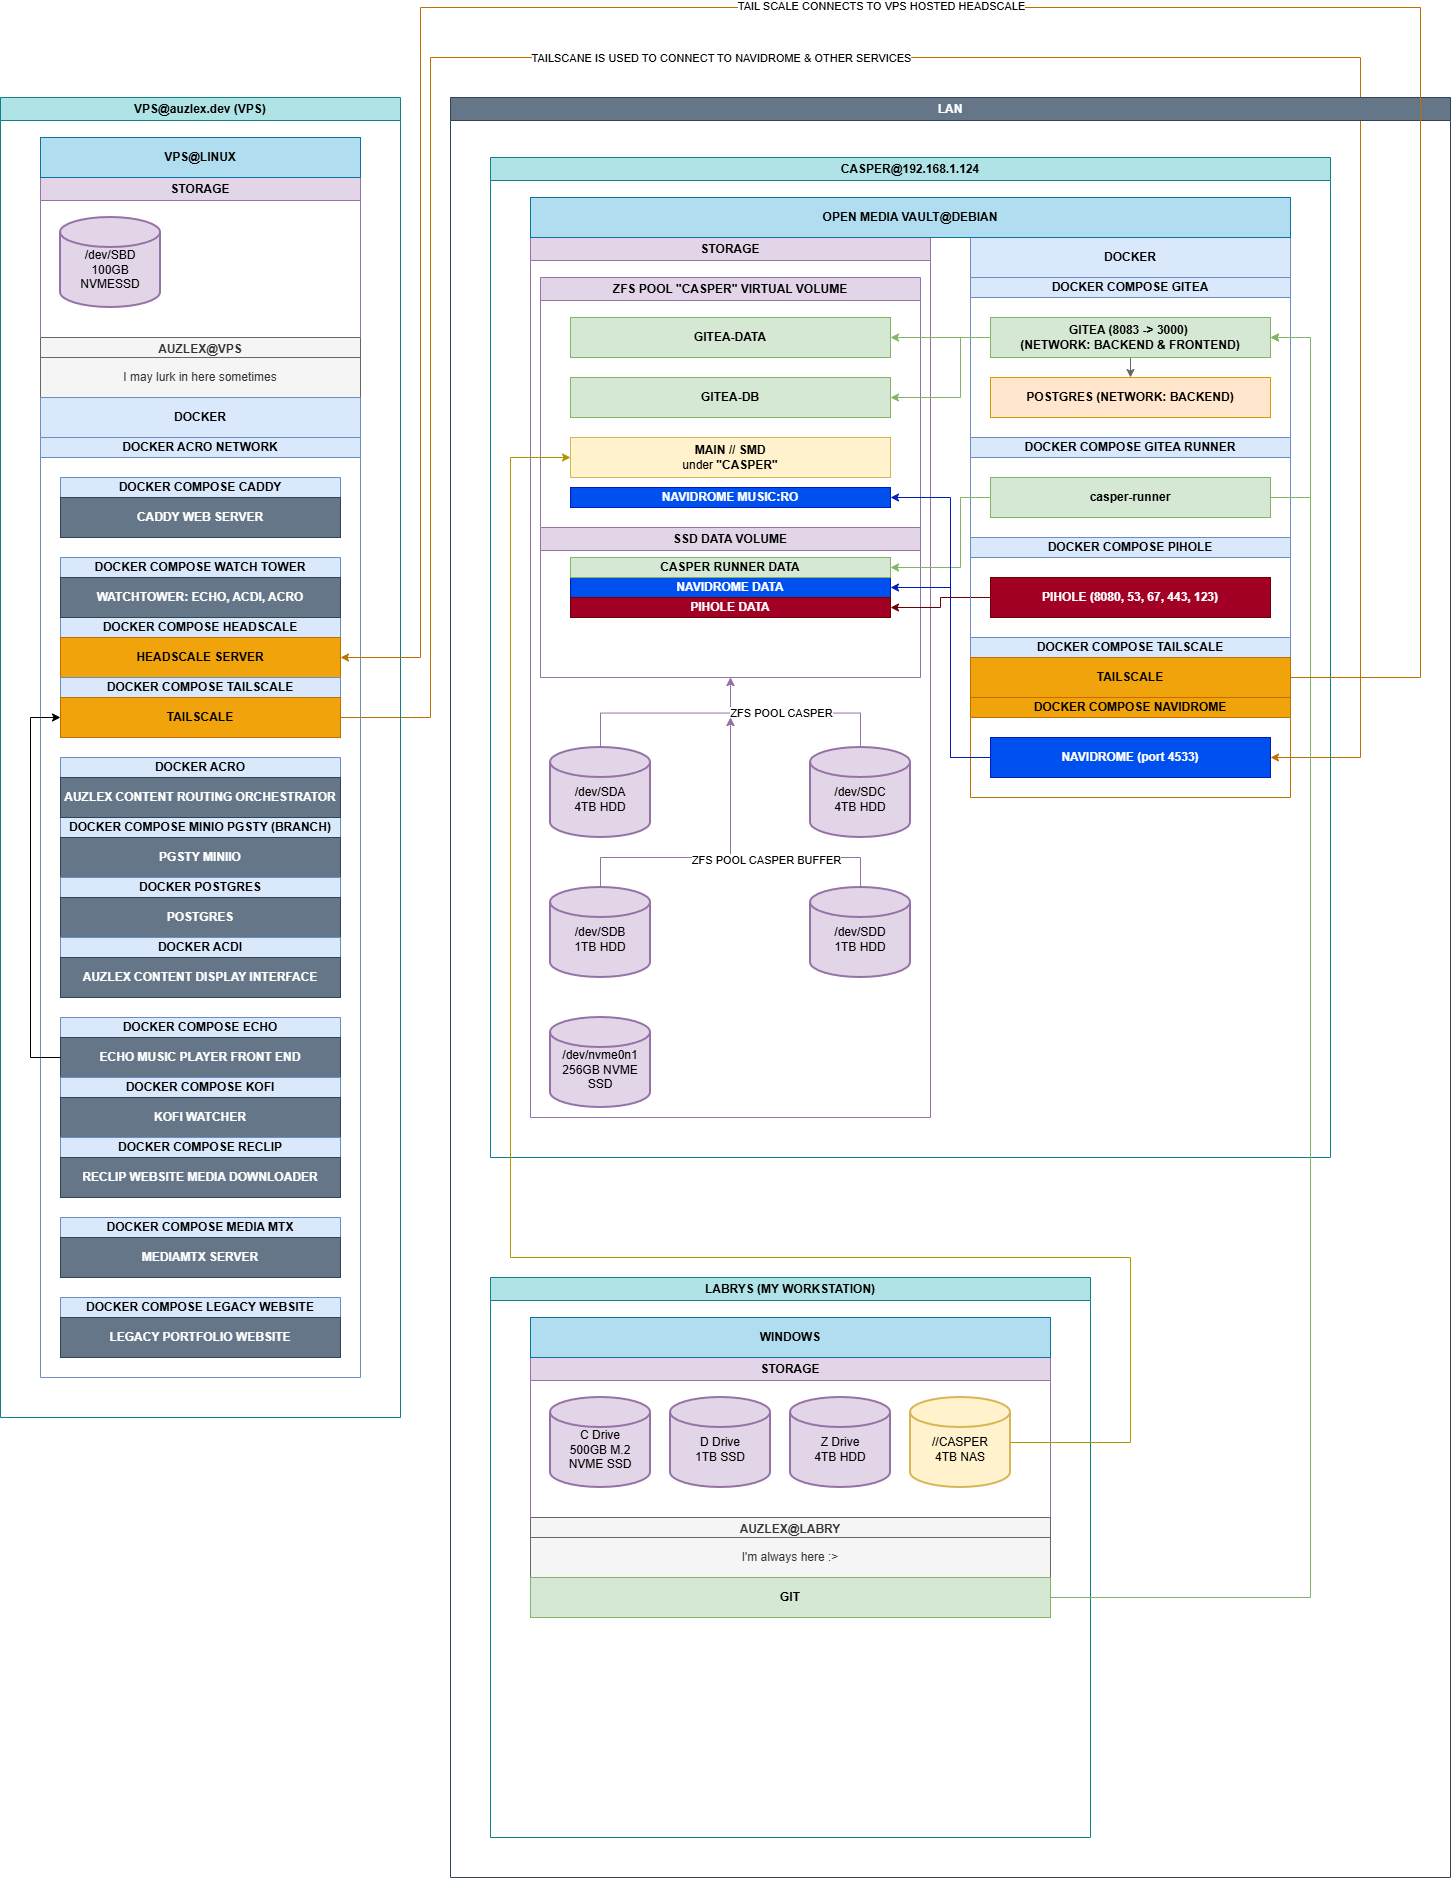
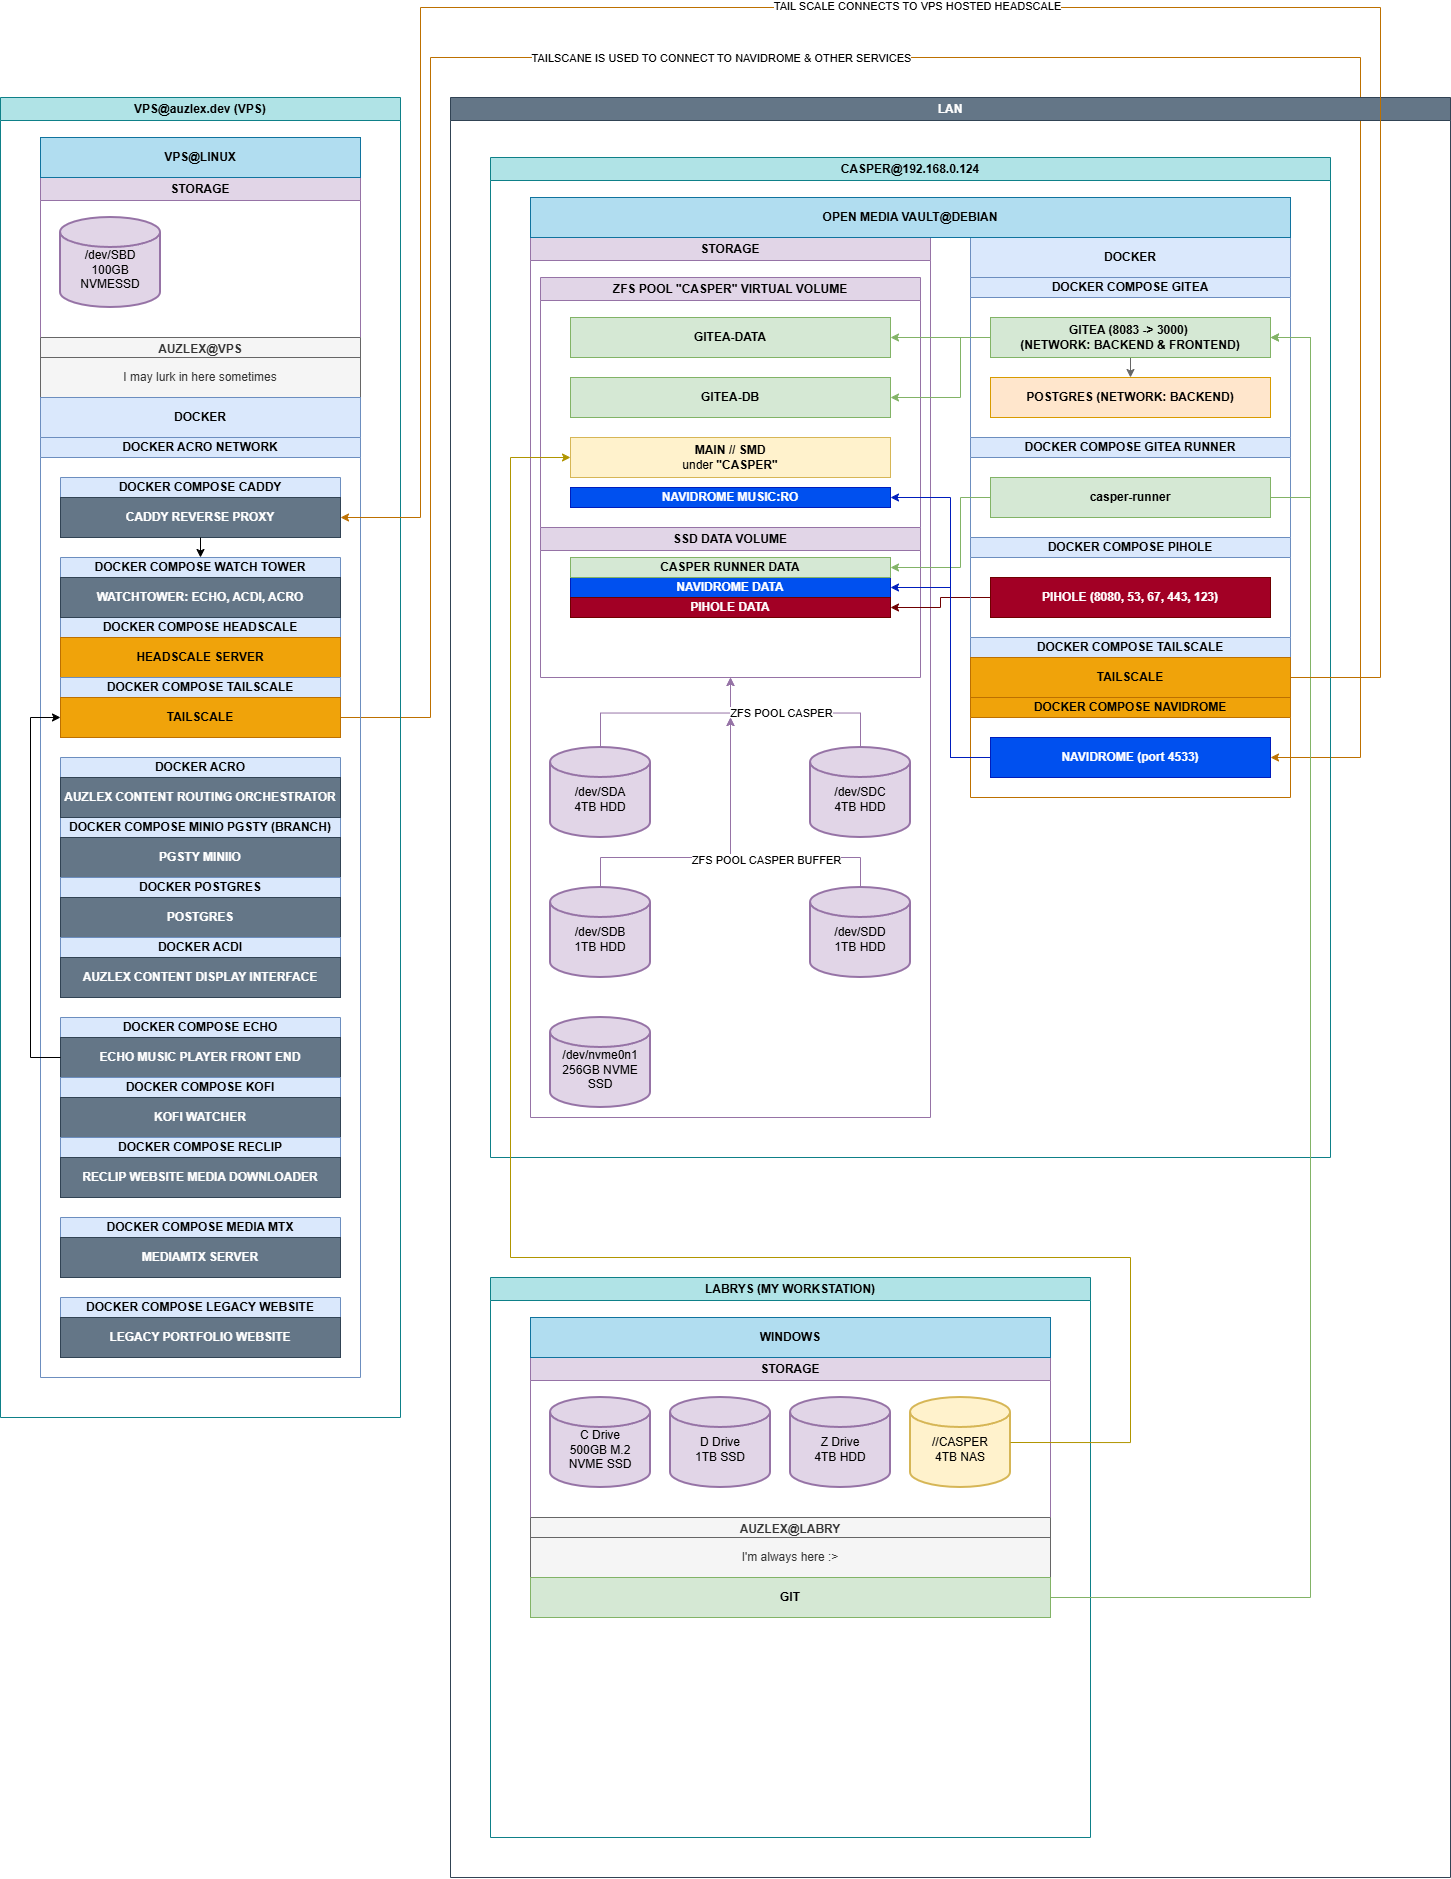
updated subnet mask for new router

diff --git a/docs/loric.md b/docs/loric.md
@@ -7,9 +7,9 @@
 
 * **Hostname:** LORIC  
 * **Type:** Raspberry Pi 3 B+
-* **IPv4 Address:** `192.168.1.122` **(STATIC)**
+* **IPv4 Address:** `192.168.0.122` **(STATIC)**
 * **IPv6 Address:** Any/Unused **(Dynamic)**
-* **Assigned IPv4 DNS:** `192.168.1.125` (**[ENLIL](enlil.md)**)
+* **Assigned IPv4 DNS:** `192.168.0.125` (**[ENLIL](enlil.md)**)
 * **Assigned IPv6 DNS:** `2a00:23c7:593:6501:ba27:ebff:fe0f:e3f2` (**[ENLIL](enlil.md)**)
 * **Architecture:** ARMv7 (Raspberry Pi 3 B+)  
 
@@ -62,9 +62,9 @@ We will use the following command to set a static IPv4 on our device and ensure 
 
 ```bash
 auzlex@LORIC:~ $ sudo nmcli connection modify "target connection" \
-    ipv4.addresses 192.168.1.122/24 \
-    ipv4.gateway 192.168.1.254 \
-    ipv4.dns 192.168.1.125 \
+    ipv4.addresses 192.168.0.122/24 \
+    ipv4.gateway 192.168.0.254 \
+    ipv4.dns 192.168.0.125 \
     ipv4.ignore-auto-dns yes \
     ipv4.method manual \
     ipv6.dns 2a00:23c7:593:6501:ba27:ebff:fe0f:e3f2 \
@@ -125,8 +125,8 @@ auzlex@LORIC:~ $ sudo nano /etc/cloud/cloud.cfg
 
 * Set `manage_etc_hosts: false` in the configuration.
 
-* Then, edit `/etc/cloud/templates/hosts.debian.tmpl` to allow LORIC to resolve `192.168.1.124`:
-(This one is important because I have gitea working under reverse proxy via traefik so I need `http://192.168.1.124:8083`).
+* Then, edit `/etc/cloud/templates/hosts.debian.tmpl` to allow LORIC to resolve `192.168.0.124`:
+(This one is important because I have gitea working under reverse proxy via traefik so I need `http://192.168.0.124:8083`).
 
 ```bash
 auzlex@LORIC:~ $ sudo nano /etc/cloud/templates/hosts.debian.tmpl
@@ -135,7 +135,7 @@ auzlex@LORIC:~ $ sudo nano /etc/cloud/templates/hosts.debian.tmpl
 * Add:
 
 ```
-192.168.1.124 192.168.1.124
+192.168.0.124 192.168.0.124
 ``` -->
 
 ### 6. Register Runner with Gitea
@@ -143,7 +143,7 @@ auzlex@LORIC:~ $ sudo nano /etc/cloud/templates/hosts.debian.tmpl
 * Obtain the **registration token** from CASPER (Gitea UI: Settings → Actions → Runners → Add Runner).
 
 ```bash
-auzlex@LORIC:~/gitea-runner $ ./act_runner register --instance http://192.168.1.124:8083 --token <TOKEN> --name loric-runner --labels pi3,armv7 --no-interactive
+auzlex@LORIC:~/gitea-runner $ ./act_runner register --instance http://192.168.0.124:8083 --token <TOKEN> --name loric-runner --labels pi3,armv7 --no-interactive
 ```
 
 * `<TOKEN>`: token obtained from CASPER.
@@ -219,7 +219,7 @@ jobs:
     runs-on: pi3  # label matches LORIC and AUREL worker
     steps:
       - name: Echo from Worker
-        run: ssh ci@192.168.1.123 'echo "Hello from AUREL!"'
+        run: ssh ci@192.168.0.123 'echo "Hello from AUREL!"'
 
 ```
 
@@ -247,7 +247,7 @@ docker context ls
 
 ```bash
 NAME      DESCRIPTION                               DOCKER ENDPOINT               ERROR
-aurel *                                             ssh://ci@192.168.1.123        
+aurel *                                             ssh://ci@192.168.0.123        
 default   Current DOCKER_HOST based configuration   unix:///var/run/docker.sock  
 ```
 
@@ -255,7 +255,7 @@ Docker contexts can be created with the following command:
 
 ```bash
 docker context create aurel \
-  --docker "host=ssh://ci@192.168.1.123"
+  --docker "host=ssh://ci@192.168.0.123"
 ```
 
 Next we tell **LORIC** to use **AUREL** for docker usage.
@@ -275,6 +275,6 @@ After this:
 ## Notes
 
 * **CASPER** never talks to workers directly; all execution flows through **LORIC**.
-<!-- * Ensure `/etc/hosts` entry for `192.168.1.124` remains in place for DNS resolution. -->
+<!-- * Ensure `/etc/hosts` entry for `192.168.0.124` remains in place for DNS resolution. -->
 * Runner binary located at: `~/gitea-runner/act_runner`.
 * Docker must remain installed and updated for workflows that use containerized jobs.

diff --git a/docs/aurel.md b/docs/aurel.md
@@ -6,9 +6,9 @@
 **Status:** This system has been retired as part of the MK-1 to MK-2 homelab transition. Documentation is retained for archival purposes.
 
 * **Hostname:** AUREL
-* **IPv4 Address:** `192.168.1.123` **(STATIC)**
+* **IPv4 Address:** `192.168.0.123` **(STATIC)**
 * **IPv6 Address:** Any/Unused **(Dynamic)**
-* **Assigned IPv4 DNS:** `192.168.1.125` (**[ENLIL](enlil.md)**)
+* **Assigned IPv4 DNS:** `192.168.0.125` (**[ENLIL](enlil.md)**)
 * **Assigned IPv6 DNS:** `2a00:23c7:593:6501:ba27:ebff:fe0f:e3f2` (**[ENLIL](enlil.md)**)
 * **Architecture:** ARMv7 (Raspberry Pi 3 B+)
 
@@ -69,9 +69,9 @@ We will use the following command to set a static IPv4 on our device and ensure 
 
 ```bash
 auzlex@AUREL:~ $ sudo nmcli connection modify "target connection" \
-    ipv4.addresses 192.168.1.123/24 \
-    ipv4.gateway 192.168.1.254 \
-    ipv4.dns 192.168.1.125 \
+    ipv4.addresses 192.168.0.123/24 \
+    ipv4.gateway 192.168.0.254 \
+    ipv4.dns 192.168.0.125 \
     ipv4.ignore-auto-dns yes \
     ipv4.method manual \
     ipv6.dns 2a00:23c7:593:6501:ba27:ebff:fe0f:e3f2 \
@@ -140,7 +140,7 @@ We will create a user ci which will be used for build related workloads and for 
 6. Test SSH login (password initially, then test key-based auth):
 
     ```bash
-    ssh ci@192.168.1.123
+    ssh ci@192.168.0.123
     ```
 
 7. Verify home directory ownership:

diff --git a/docs/enlil.md b/docs/enlil.md
@@ -5,7 +5,7 @@
 **Status:** This system has been retired as part of the MK-1 to MK-2 homelab transition. Documentation is retained for archival purposes.
 
 * **Hostname:** ENLIL
-* **IPv4 Address:** `192.168.1.125` **(STATIC)**
+* **IPv4 Address:** `192.168.0.125` **(STATIC)**
 * **IPv6 Address:** `2a00:23c7:593:6501:ba27:ebff:fe0f:e3f2` **(STATIC)**
 * **Assigned IPv4 DNS:** obtained automatically (not to be mistaken with the pi-hole configuration dns)
 * **Assigned IPv6 DNS:** obtained automatically (not to be mistaken with the pi-hole configuration dns)
@@ -53,7 +53,7 @@ We will use the following command to set a static IPv4 and IPV6 on our device.
 
 ```bash
 auzlex@ENLIL:~ $ sudo nmcli connection modify "target connection" \
-    ipv4.addresses 192.168.1.125/24 \
+    ipv4.addresses 192.168.0.125/24 \
     ipv4.method manual \
     ipv6.addresses 2a00:23c7:593:6501:ba27:ebff:fe0f:e3f2/64 \
     ipv6.method manual

diff --git a/docs/casper.md b/docs/casper.md
@@ -4,9 +4,9 @@
 # CASPER - Gitea Server & Network Attached Storage
 
 * **Hostname:** CASPER
-* **IPv4 Address:** 192.168.1.124 **(STATIC)**
+* **IPv4 Address:** 192.168.0.124 **(STATIC)**
 * **IPv6 Address:** 2a00:23c7:593:6501:ba27:ebff:fe0f:e3f2 **(STATIC)**
-* **Assigned IPv4 DNS:** 192.168.1.124 (**Itself - Pi-hole**)
+* **Assigned IPv4 DNS:** 192.168.0.124 (**Itself - Pi-hole**)
 * **Assigned IPv6 DNS:** 2a00:23c7:593:6501:ba27:ebff:fe0f:e3f2 (**Itself - Pi-hole**)
 * **Architecture:** x86-64 (OpenMediaVault Server)
 
